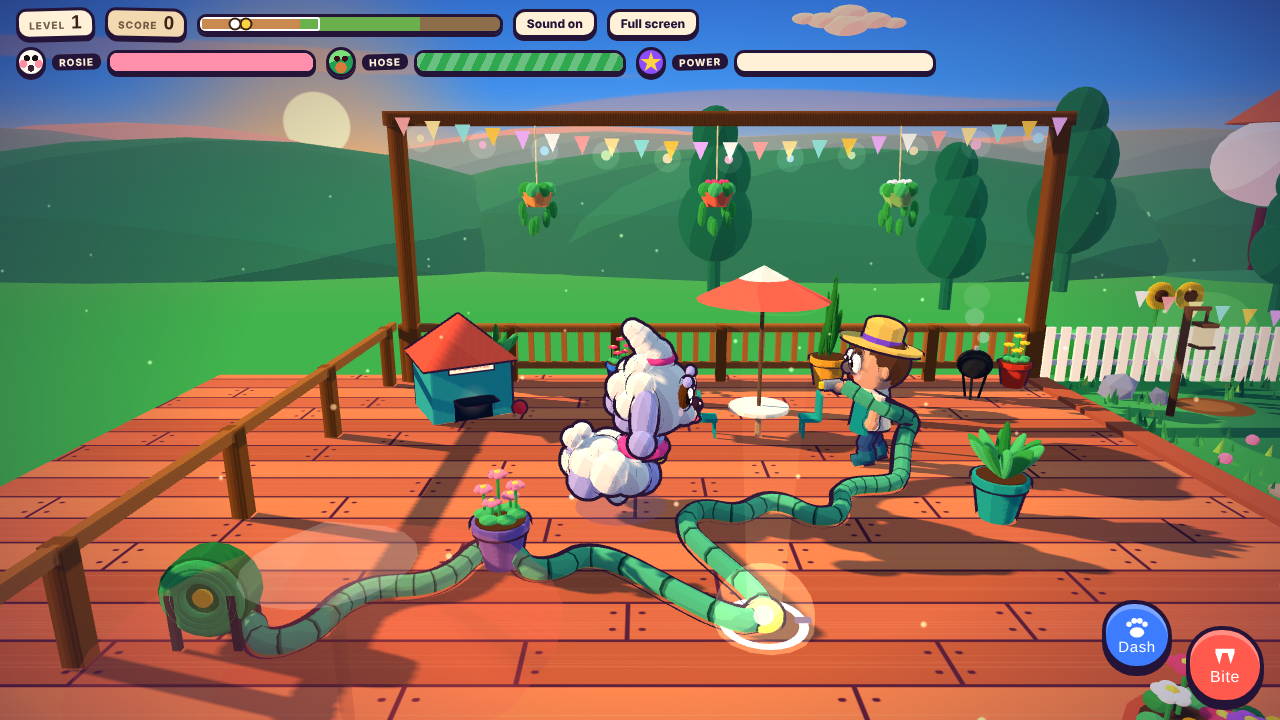
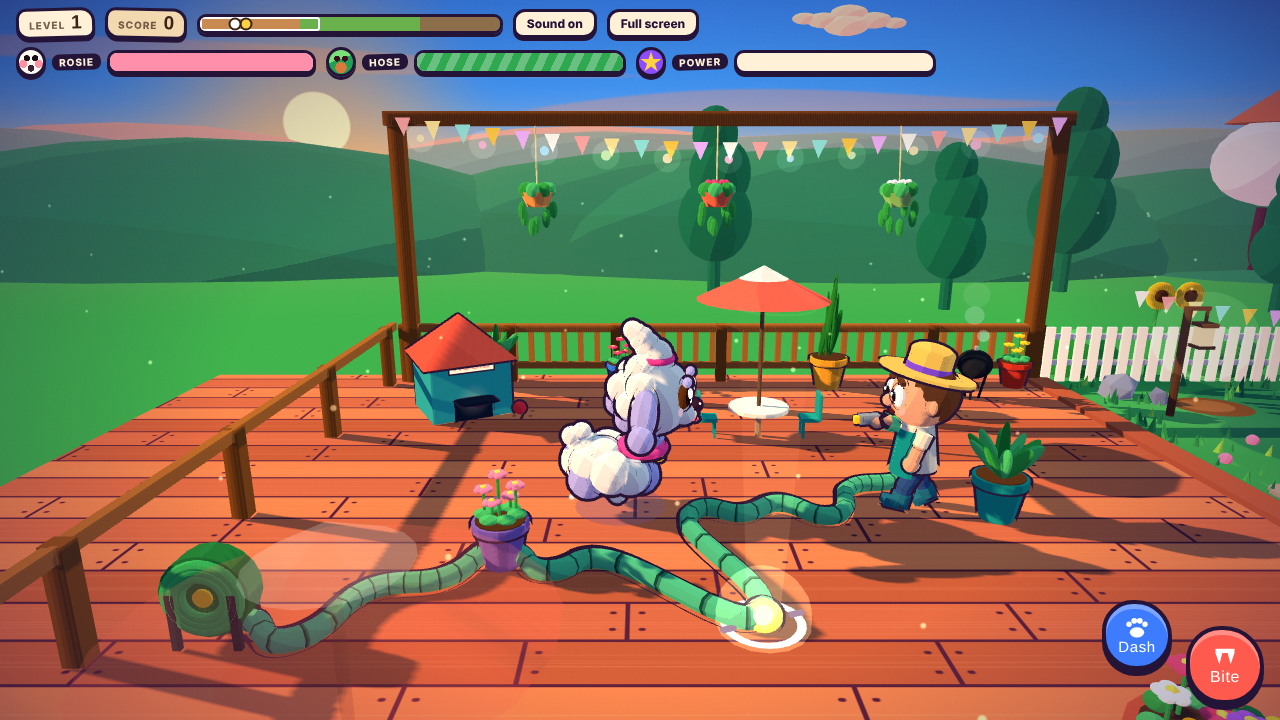
feat: rebuild the title card and HUD
Implements art-direction-v2 item 10. The title card docks left with a
hand-set three-row logo that survives a missing web font, the camera
frames Rosie large on the right, and she now starts in three-quarter view
so the card shows her face instead of her back. HUD gains portrait chips,
thicker meters and glyph touch buttons, with room for one more chip.

Refs: design/art/art-direction-v2.md item 10

Claude-Session: https://claude.ai/code/session_01JR8fsw3Uh5kViP8MJWMfnz

diff --git a/src/index.html b/src/index.html
@@ -294,7 +294,8 @@ let parts=[],pops=[],confetti=[],critters=[],attacks=[],puddles=[],treats=[],pun
 let hitStop=0,fovKick=0,flash=0,biteBuf=0,dashBuf=0,dtS=1/60,geysers=[];
 let attackCd=2.5,head2Cd=3,treatCd=5,critterCd=0,inX=0,inY=0;
 const keys={};let ptr=null,joy=null;
-const R={x:300,y:500,f:1,vx:0,vy:0,hp:100,sc:1,wet:0,chomp:0,recover:0,dash:0,dashCd:0,dashT:0,dx:1,dy:0,iframe:0,hurt:0,speed:0,perfect:false,gait:0,fs:1,ang:0,biteT:0,thrash:0,thrashI:45,safeT:0};
+// ang starts in three-quarter view so the title card shows Rosie's face, not her back; resetLevel squares her up for play
+const R={x:300,y:500,f:1,vx:0,vy:0,hp:100,sc:1,wet:0,chomp:0,recover:0,dash:0,dashCd:0,dashT:0,dx:1,dy:0,iframe:0,hurt:0,speed:0,perfect:false,gait:0,fs:1,ang:Math.PI/2.9,biteT:0,thrash:0,thrashI:45,safeT:0};
 const Hm={x:720,y:470,f:-1,tx:600,ty:470,mode:'roam',moving:false,walkT:0,cower:false,shock:0,cx:0,cy:0,grabbed:true,wpT:0};
 const E={x:0,y:0,vx:0,vy:0,ph:0};
 const J={cd:0,streak:0,winded:0,last:1,lastT:9,hits:0};
